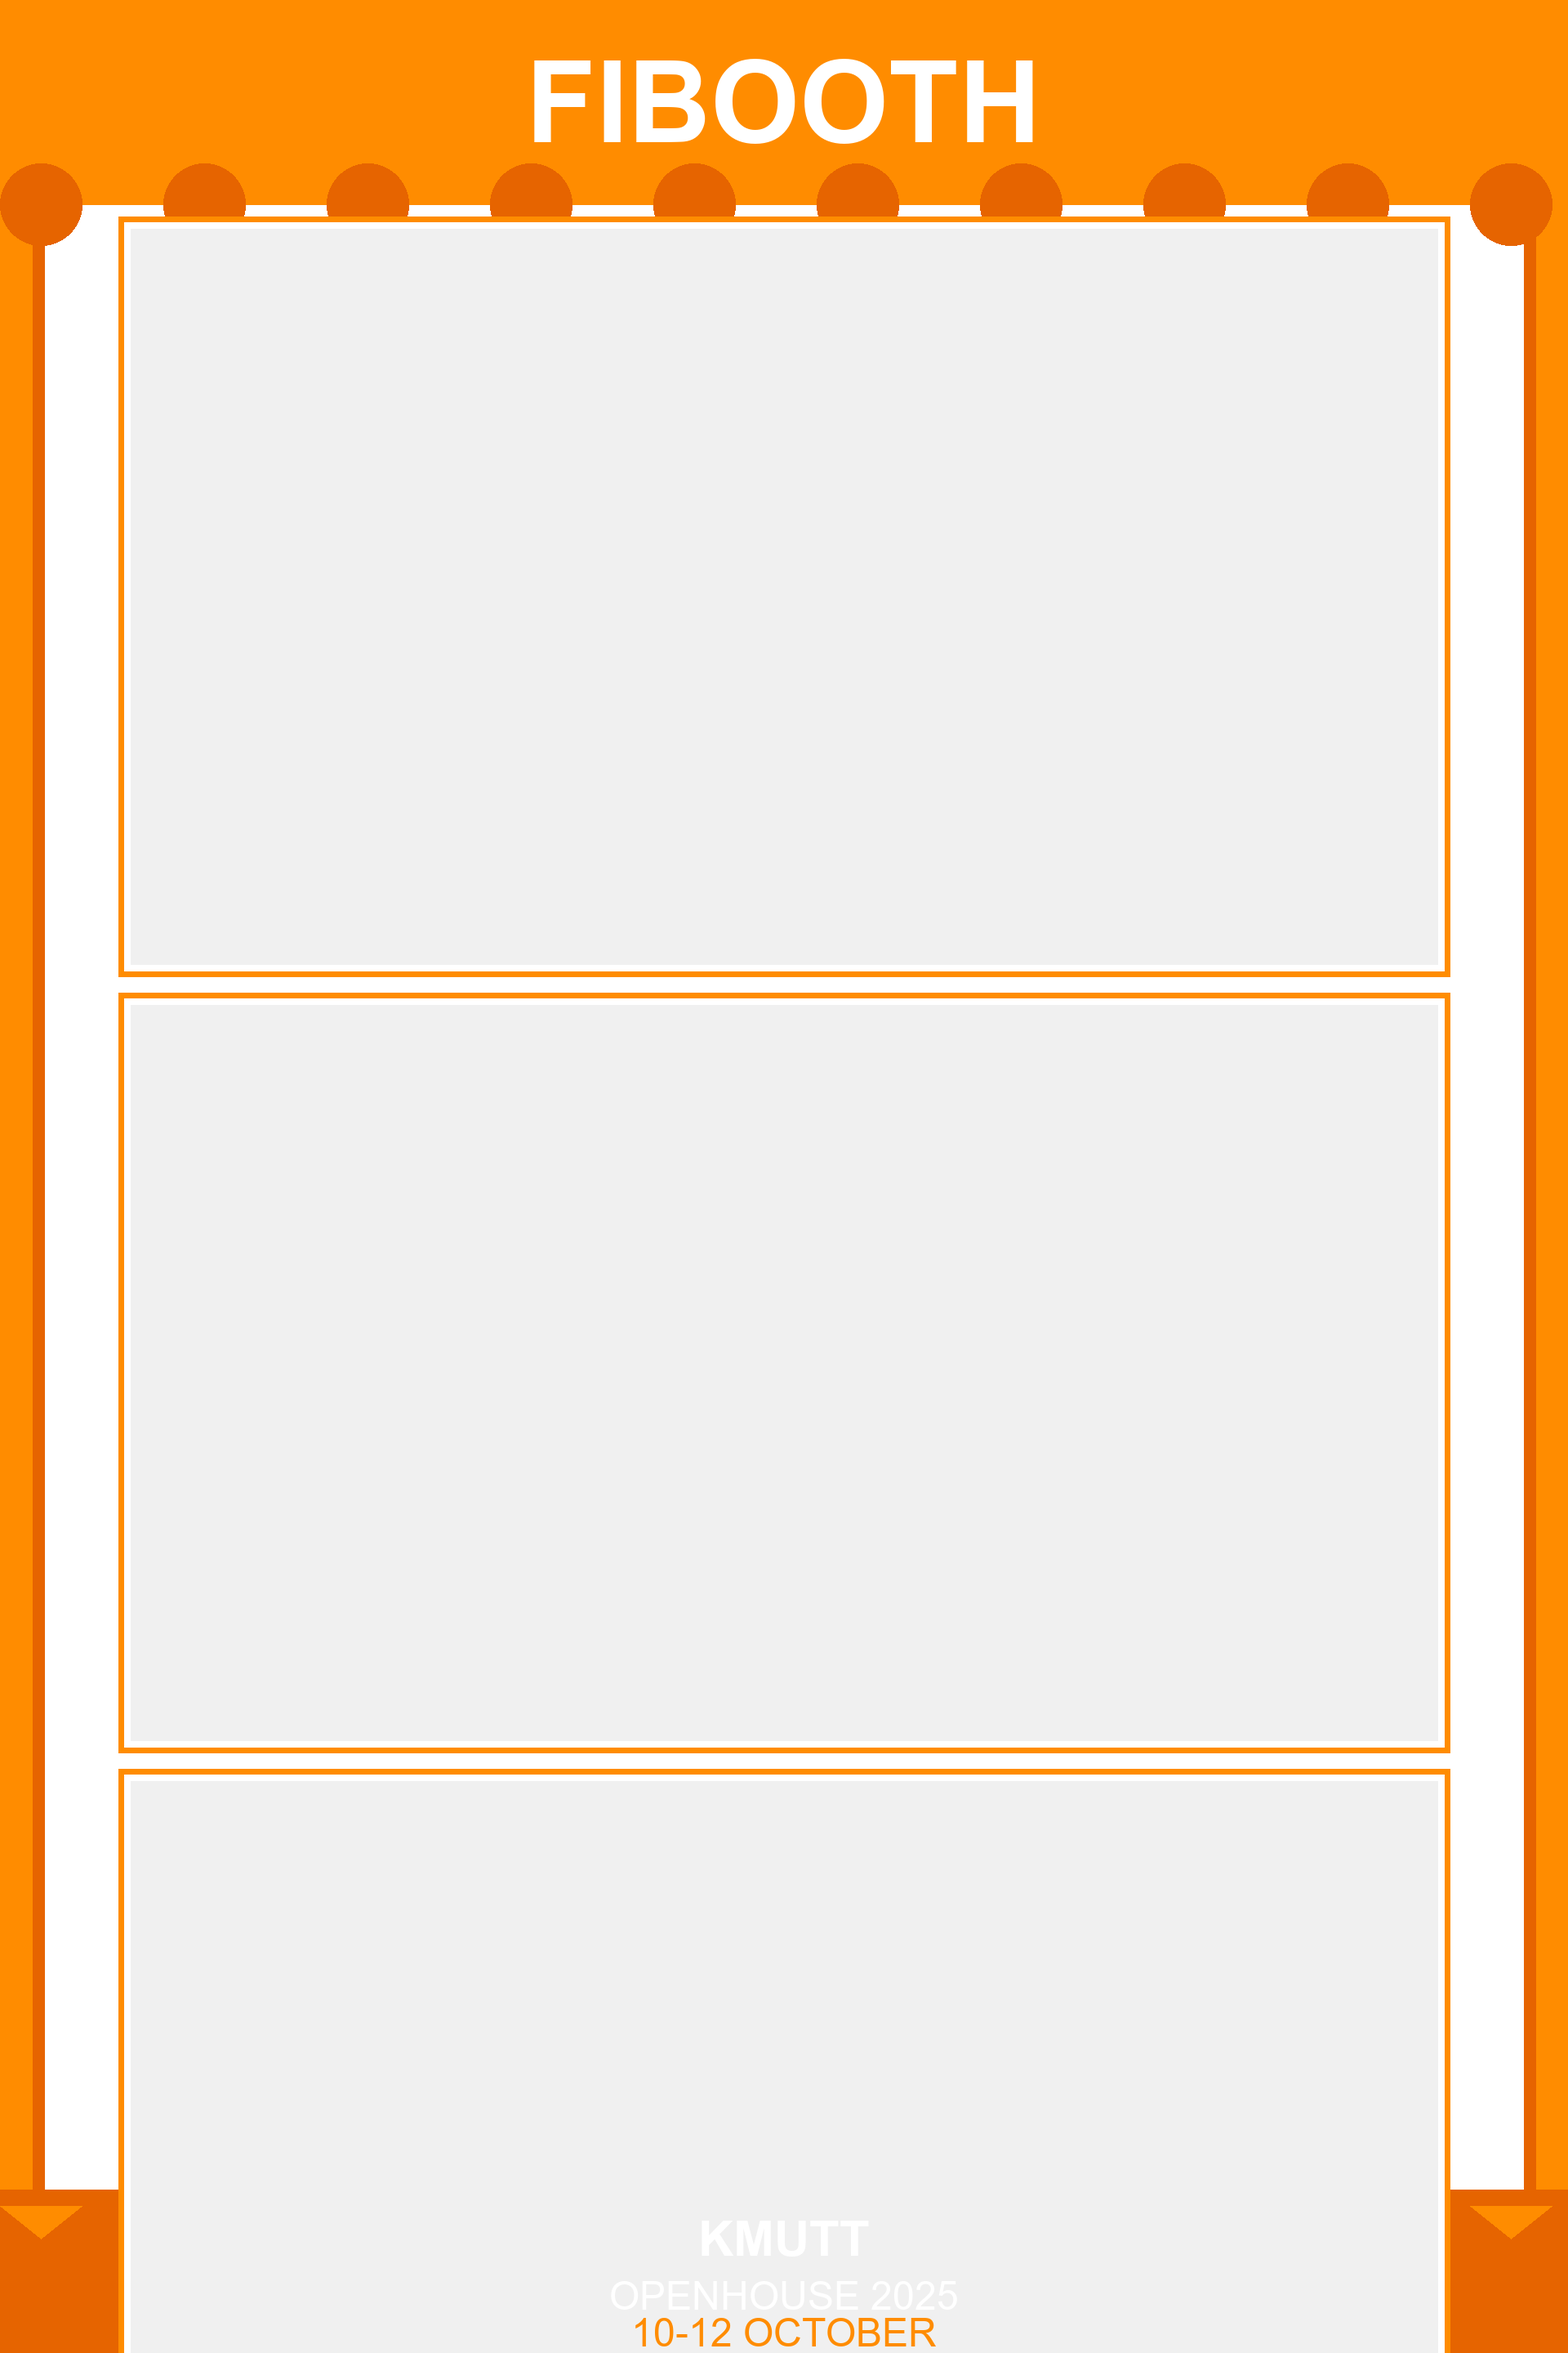
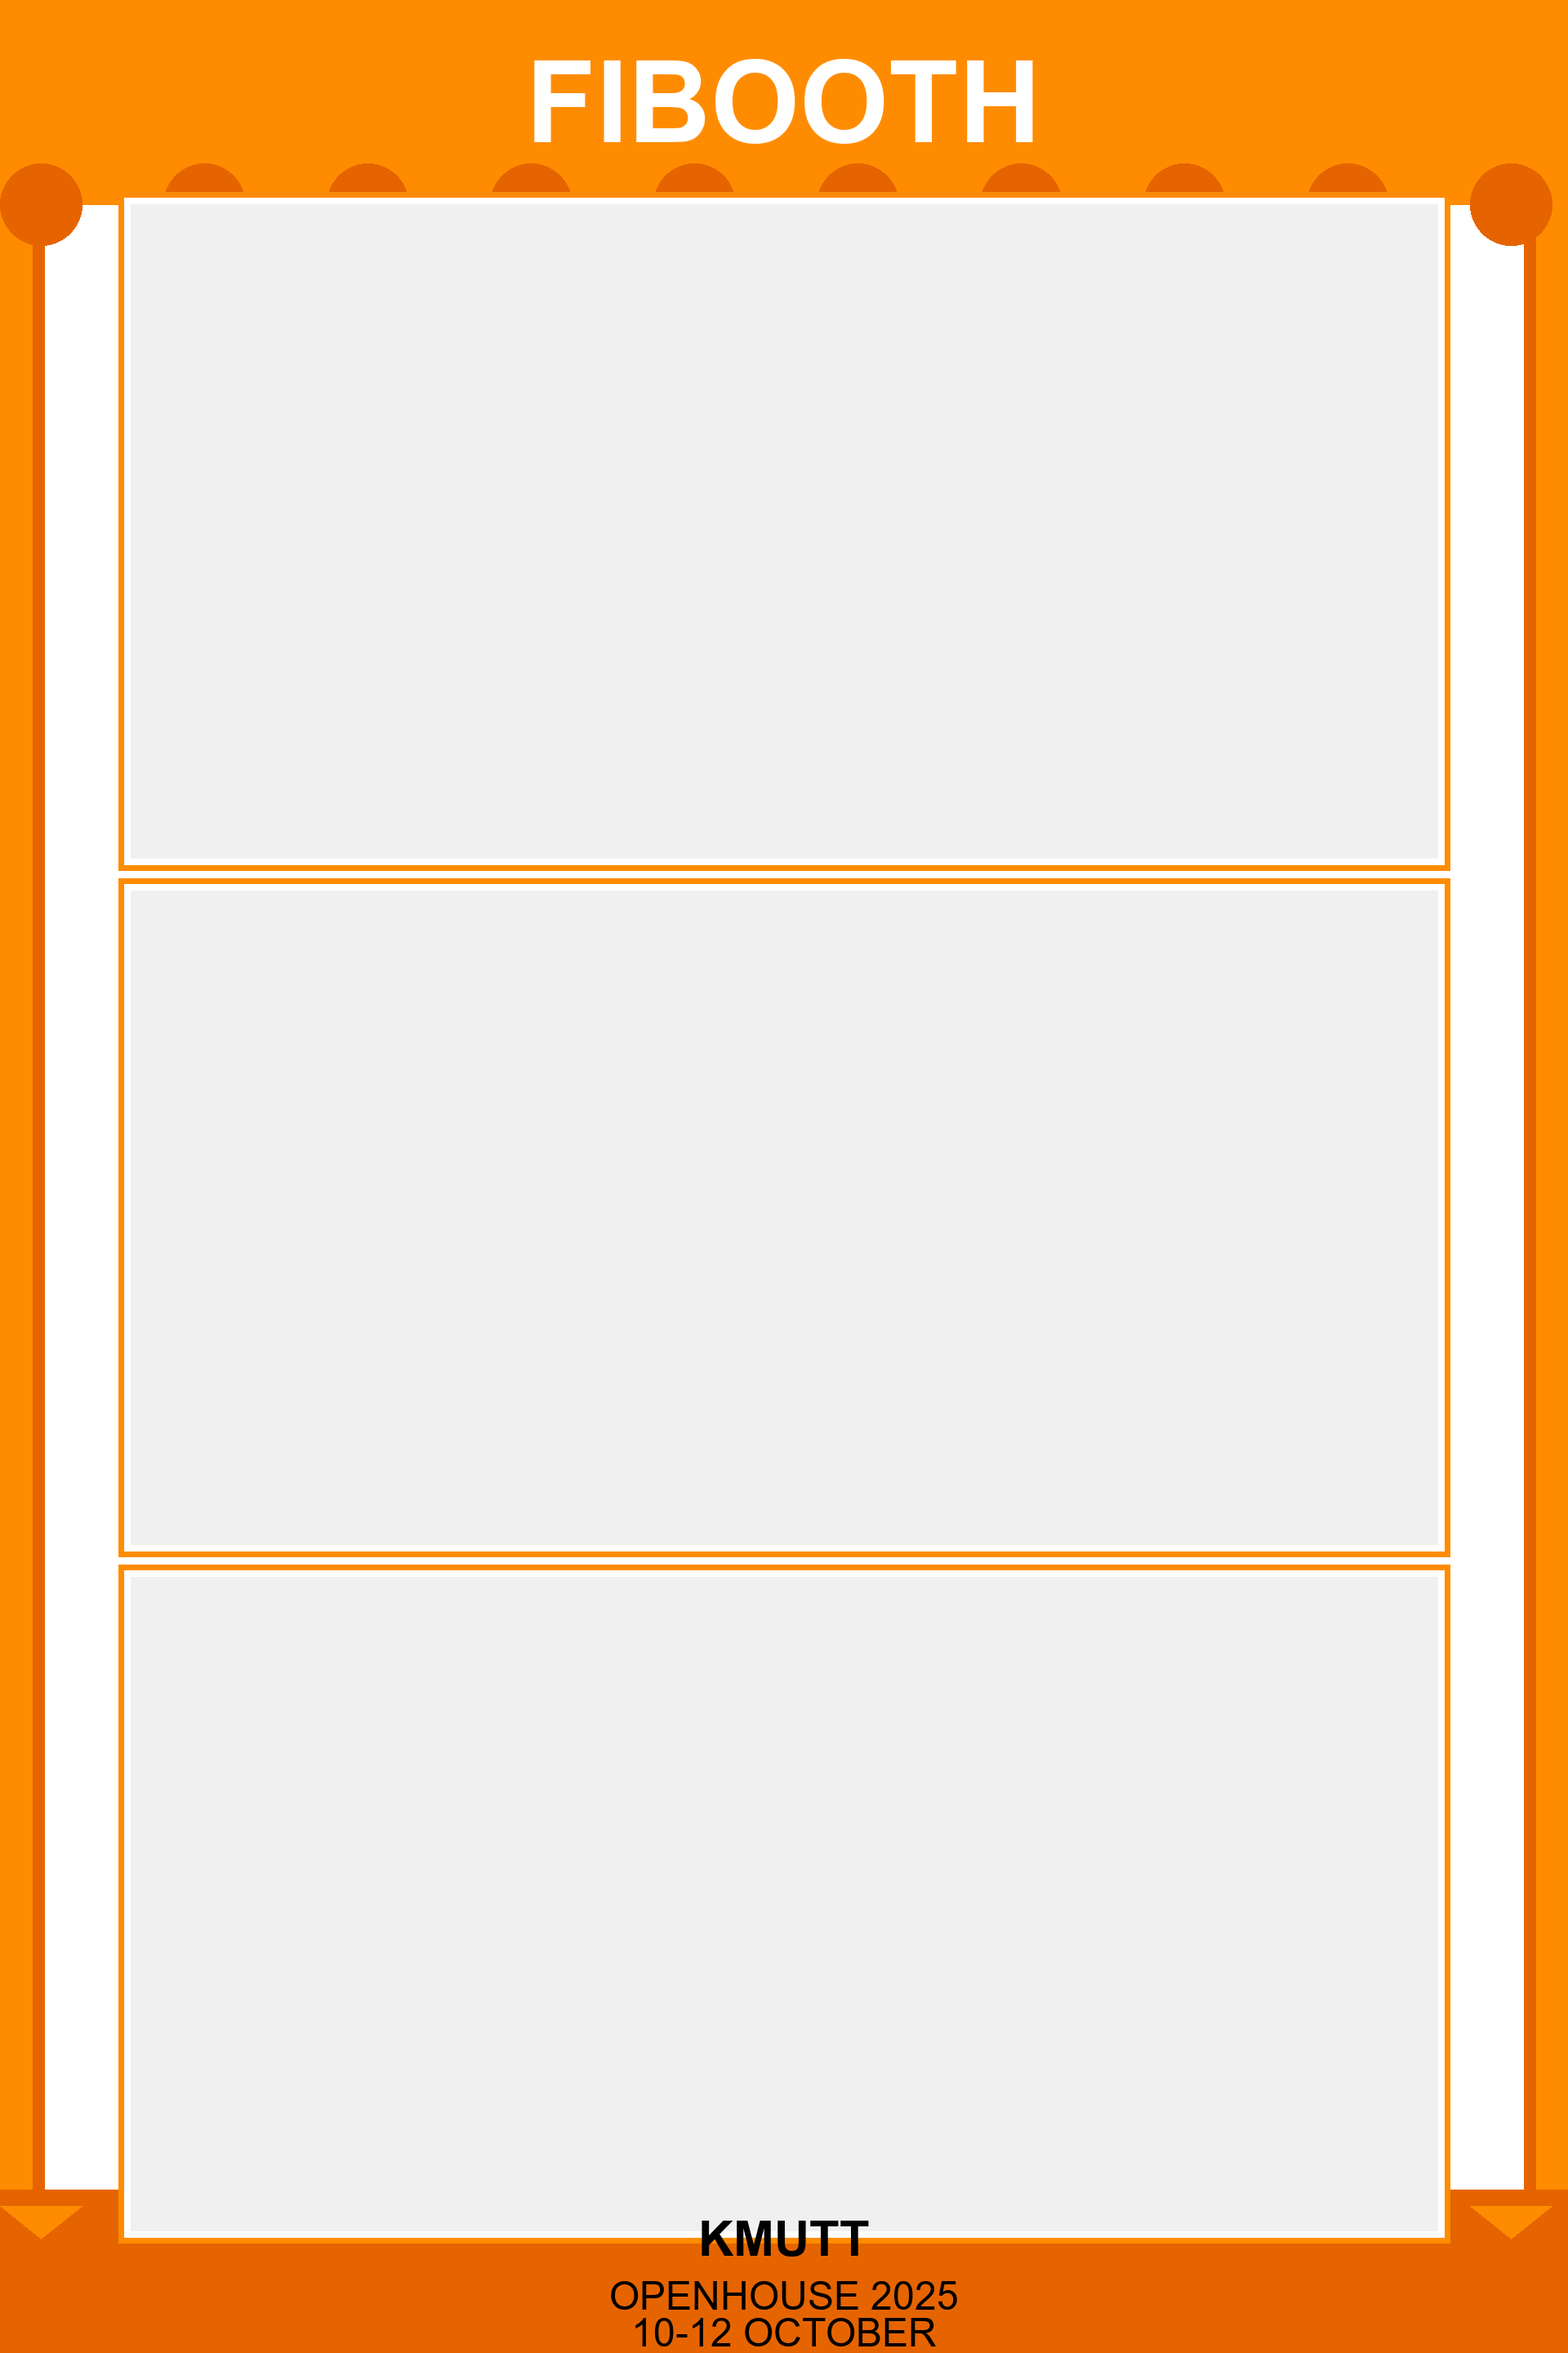
full4

diff --git a/Photobooth-master/create_fibooth_frames.py b/Photobooth-master/create_fibooth_frames.py
@@ -12,11 +12,11 @@ from pathlib import Path
 FRAME_WIDTH = 1920
 FRAME_HEIGHT = 2880
 
-# Image positions (3 photos)
+# Image positions (3 photos) - Match frame_config.json
 IMAGE_POSITIONS = [
-    {"x": 160, "y": 280, "width": 1600, "height": 900},
-    {"x": 160, "y": 1230, "width": 1600, "height": 900},
-    {"x": 160, "y": 2180, "width": 1600, "height": 900}
+    {"x": 160, "y": 250, "width": 1600, "height": 800},
+    {"x": 160, "y": 1090, "width": 1600, "height": 800},
+    {"x": 160, "y": 1930, "width": 1600, "height": 800}
 ]
 
 # Colors (Orange and White theme for KMUTT)
@@ -130,8 +130,8 @@ def create_frame_gradient():
         draw.text((FRAME_WIDTH//2 + 3, 113), "FIBOOTH", fill=BLACK, font=title_font, anchor="mm")
         draw.text((FRAME_WIDTH//2, 110), "FIBOOTH", fill=ORANGE, font=title_font, anchor="mm")
 
-        # Subtitle
-        draw.text((FRAME_WIDTH//2, FRAME_HEIGHT - 100), "KMUTT OPENHOUSE 2025", fill=DARK_ORANGE, font=subtitle_font, anchor="mm")
+        # Subtitle - Changed to ORANGE for better visibility
+        draw.text((FRAME_WIDTH//2, FRAME_HEIGHT - 100), "KMUTT OPENHOUSE 2025", fill=ORANGE, font=subtitle_font, anchor="mm")
         draw.text((FRAME_WIDTH//2, FRAME_HEIGHT - 40), "10-12 OCTOBER", fill=ORANGE, font=info_font, anchor="mm")
 
     except Exception as e:
@@ -197,10 +197,10 @@ def create_frame_bold():
         # Header text
         draw.text((FRAME_WIDTH//2, 125), "FIBOOTH", fill=WHITE, font=title_font, anchor="mm")
 
-        # Footer text
-        draw.text((FRAME_WIDTH//2, footer_y + 60), "KMUTT", fill=WHITE, font=subtitle_font, anchor="mm")
-        draw.text((FRAME_WIDTH//2, footer_y + 130), "OPENHOUSE 2025", fill=WHITE, font=info_font, anchor="mm")
-        draw.text((FRAME_WIDTH//2, footer_y + 175), "10-12 OCTOBER", fill=ORANGE, font=info_font, anchor="mm")
+        # Footer text - Changed to BLACK for better visibility
+        draw.text((FRAME_WIDTH//2, footer_y + 60), "KMUTT", fill=BLACK, font=subtitle_font, anchor="mm")
+        draw.text((FRAME_WIDTH//2, footer_y + 130), "OPENHOUSE 2025", fill=BLACK, font=info_font, anchor="mm")
+        draw.text((FRAME_WIDTH//2, footer_y + 175), "10-12 OCTOBER", fill=BLACK, font=info_font, anchor="mm")
 
     except Exception as e:
         print(f"Warning: Could not add text - {e}")
@@ -209,28 +209,22 @@ def create_frame_bold():
 
 
 def main():
-    """Generate all three frame designs"""
+    """Generate frame designs (Gradient and Bold only)"""
     frames_dir = Path(__file__).parent / "frames"
     frames_dir.mkdir(exist_ok=True)
 
     print("Creating FIBOOTH frame designs...")
 
-    # Frame 1: Modern
-    print("  Creating frame 1: Modern Minimalist...")
-    frame1 = create_frame_modern()
-    cv2.imwrite(str(frames_dir / "frame_fibooth_modern.png"), frame1)
-    print("    ✓ Saved: frame_fibooth_modern.png")
-
-    # Frame 2: Gradient
-    print("  Creating frame 2: Gradient Style...")
-    frame2 = create_frame_gradient()
-    cv2.imwrite(str(frames_dir / "frame_fibooth_gradient.png"), frame2)
+    # Frame 1: Gradient
+    print("  Creating frame 1: Gradient Style...")
+    frame1 = create_frame_gradient()
+    cv2.imwrite(str(frames_dir / "frame_fibooth_gradient.png"), frame1)
     print("    ✓ Saved: frame_fibooth_gradient.png")
 
-    # Frame 3: Bold
-    print("  Creating frame 3: Bold Design...")
-    frame3 = create_frame_bold()
-    cv2.imwrite(str(frames_dir / "frame_fibooth_bold.png"), frame3)
+    # Frame 2: Bold
+    print("  Creating frame 2: Bold Design...")
+    frame2 = create_frame_bold()
+    cv2.imwrite(str(frames_dir / "frame_fibooth_bold.png"), frame2)
     print("    ✓ Saved: frame_fibooth_bold.png")
 
     # Update config file
@@ -240,18 +234,12 @@ def main():
     with open(config_path, 'r', encoding='utf-8') as f:
         config = json.load(f)
 
-    # Add new frame configurations
+    # Add new frame configurations (matching IMAGE_POSITIONS)
     new_positions = [
-        {"x": 160, "y": 280, "width": 1600, "height": 900},
-        {"x": 160, "y": 1230, "width": 1600, "height": 900},
-        {"x": 160, "y": 2180, "width": 1600, "height": 900}
+        {"x": 160, "y": 250, "width": 1600, "height": 800},
+        {"x": 160, "y": 1090, "width": 1600, "height": 800},
+        {"x": 160, "y": 1930, "width": 1600, "height": 800}
     ]
-
-    config["fibooth_modern"] = {
-        "frame_path": "frames/frame_fibooth_modern.png",
-        "image_positions": new_positions,
-        "canvas_size": [FRAME_WIDTH, FRAME_HEIGHT]
-    }
 
     config["fibooth_gradient"] = {
         "frame_path": "frames/frame_fibooth_gradient.png",
@@ -271,7 +259,6 @@ def main():
     print("\n✓ All frames created successfully!")
     print("✓ Updated frame_config.json")
     print("\nYou can now use these frames in the photobooth:")
-    print("  - fibooth_modern")
     print("  - fibooth_gradient")
     print("  - fibooth_bold")
 

diff --git a/Photobooth-master/ui.py b/Photobooth-master/ui.py
@@ -7,7 +7,7 @@ from typing import Optional, Tuple, Dict, Any
 from PyQt5.QtCore import Qt, QThread, pyqtSignal, pyqtSlot, QSize, QTimer
 from PyQt5.QtGui import QPixmap, QImage, QIcon, QPainter, QFont, QColor
 from PyQt5.QtWidgets import (
-    QWidget, QLabel, QVBoxLayout, QHBoxLayout, QStackedWidget, QScrollArea,
+    QWidget, QLabel, QVBoxLayout, QHBoxLayout, QStackedWidget,
     QGridLayout, QPushButton, QSlider, QFrame, QColorDialog
 )
 
@@ -64,9 +64,6 @@ QSlider::groove:horizontal {
 }
 QSlider::handle:horizontal {
     background: #ff8c00; width: 16px; border-radius: 8px; margin: -6px 0;
-}
-QScrollArea {
-    border: none; background-color: #ffffff;
 }
 QFrame#line {
     background-color: #ffe6cc; max-height: 2px; min-height: 2px;
@@ -545,7 +542,7 @@ class PhotoBoothUI(QWidget):
         self.countdown_value = 0
         self.countdown_timer = QTimer()
         self.countdown_timer.timeout.connect(self._countdown_tick)
-        self.current_frame_config = "fibooth_modern"  # Default frame
+        self.current_frame_config = "fibooth_gradient"  # Default frame
 
         # Store latest processed frame for capture (full resolution)
         self.latest_processed_frame = None
@@ -627,9 +624,7 @@ class PhotoBoothUI(QWidget):
         bg_title.setProperty("section", True)
         bg_title.setAlignment(Qt.AlignCenter)
         bg_section.addWidget(bg_title)
-        bg_scroll = QScrollArea()
-        bg_scroll.setWidgetResizable(True)
-        bg_scroll.setHorizontalScrollBarPolicy(Qt.ScrollBarAlwaysOff)
+        # Changed: Use regular widget without scroll, show all in grid
         bg_content = QWidget()
         bg_grid = QGridLayout(bg_content)
         bg_grid.setSpacing(10)
@@ -642,8 +637,7 @@ class PhotoBoothUI(QWidget):
             btn.setToolTip(path)
             btn.clicked.connect(lambda checked=False, p=path: self.bg_manager.set_background(p))
             bg_grid.addWidget(btn, i // 3, i % 3)
-        bg_scroll.setWidget(bg_content)
-        bg_section.addWidget(bg_scroll)
+        bg_section.addWidget(bg_content)
 
         # --- Outline Section ---
         outline_section = QVBoxLayout()
@@ -732,30 +726,24 @@ class PhotoBoothUI(QWidget):
         frame_grid = QGridLayout()
         frame_grid.setSpacing(10)
 
-        # Frame buttons
-        self.frame_modern_btn = QPushButton("Modern")
-        self.frame_modern_btn.setCheckable(True)
-        self.frame_modern_btn.setChecked(True)
-        self.frame_modern_btn.setFixedSize(120, 60)
-        self.frame_modern_btn.clicked.connect(lambda: self._select_frame("fibooth_modern"))
-        frame_grid.addWidget(self.frame_modern_btn, 0, 0)
-
+        # Frame buttons (Gradient and Bold only)
         self.frame_gradient_btn = QPushButton("Gradient")
         self.frame_gradient_btn.setCheckable(True)
+        self.frame_gradient_btn.setChecked(True)  # Default
         self.frame_gradient_btn.setFixedSize(120, 60)
         self.frame_gradient_btn.clicked.connect(lambda: self._select_frame("fibooth_gradient"))
-        frame_grid.addWidget(self.frame_gradient_btn, 0, 1)
+        frame_grid.addWidget(self.frame_gradient_btn, 0, 0)
 
         self.frame_bold_btn = QPushButton("Bold")
         self.frame_bold_btn.setCheckable(True)
         self.frame_bold_btn.setFixedSize(120, 60)
         self.frame_bold_btn.clicked.connect(lambda: self._select_frame("fibooth_bold"))
-        frame_grid.addWidget(self.frame_bold_btn, 1, 0)
+        frame_grid.addWidget(self.frame_bold_btn, 0, 1)
 
         frame_section.addLayout(frame_grid)
 
         # Load initial frame preview
-        self._update_frame_preview("fibooth_modern")
+        self._update_frame_preview("fibooth_gradient")
 
         # --- Assemble right panel ---
         right_panel = QVBoxLayout()
@@ -1001,7 +989,6 @@ class PhotoBoothUI(QWidget):
         self.current_frame_config = frame_name
 
         # Update button states
-        self.frame_modern_btn.setChecked(frame_name == "fibooth_modern")
         self.frame_gradient_btn.setChecked(frame_name == "fibooth_gradient")
         self.frame_bold_btn.setChecked(frame_name == "fibooth_bold")
 
@@ -1014,12 +1001,11 @@ class PhotoBoothUI(QWidget):
         """Update frame preview image"""
         # Map frame names to file names
         frame_files = {
-            "fibooth_modern": "frame_fibooth_modern.png",
             "fibooth_gradient": "frame_fibooth_gradient.png",
             "fibooth_bold": "frame_fibooth_bold.png"
         }
 
-        frame_file = frame_files.get(frame_name, "frame_fibooth_modern.png")
+        frame_file = frame_files.get(frame_name, "frame_fibooth_gradient.png")
         frame_path = PROJECT_ROOT / "frames" / frame_file
 
         if frame_path.exists():

diff --git a/Photobooth-master/main.py b/Photobooth-master/main.py
@@ -10,7 +10,7 @@ def main():
 
     app = QApplication(sys.argv)
     window = PhotoBoothUI(camera_index=0)  # 0 = Laptop Webcam
-    window.show()
+    window.showFullScreen()  # Full screen mode
     sys.exit(app.exec_())
 
 if __name__ == "__main__":
